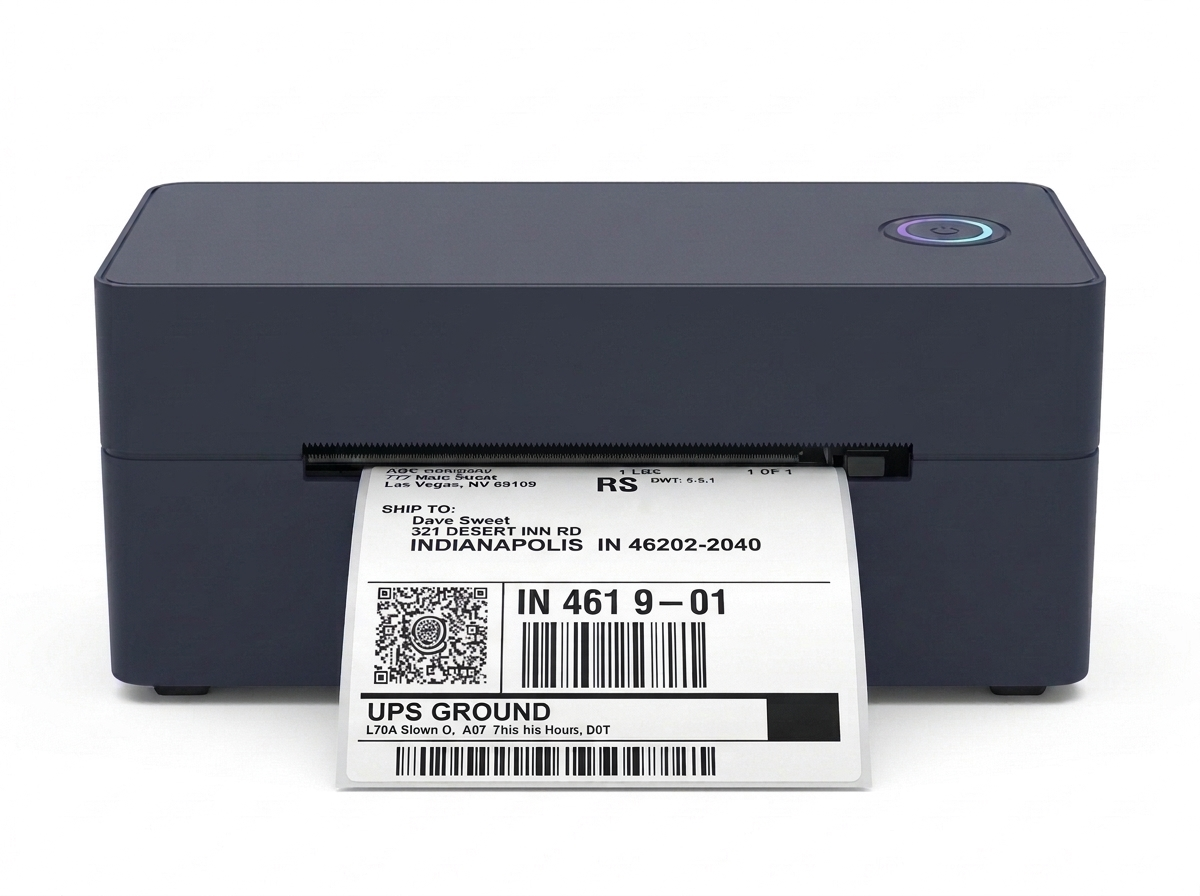
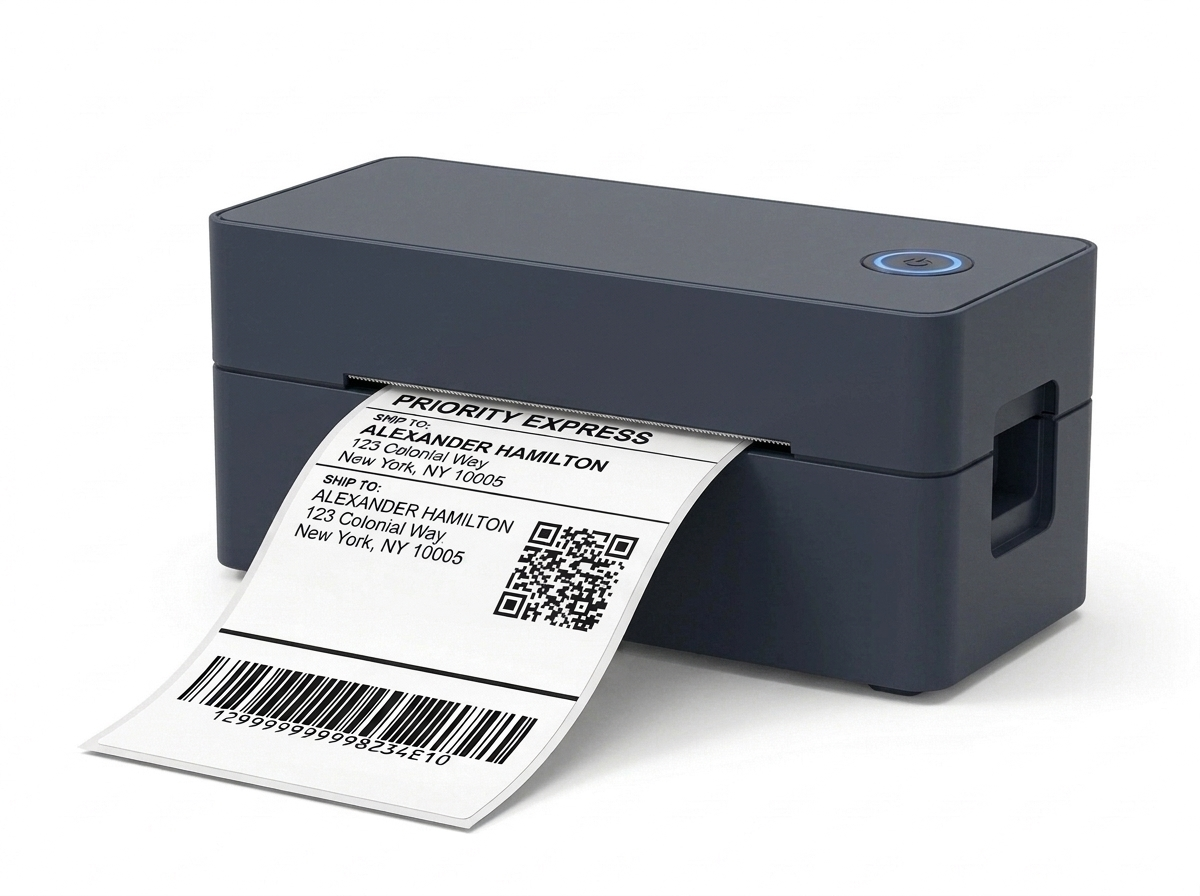
fix(checkout): add exact Dark Slate twin image and eliminate duplicate finish selector strip

Changed region(s): [[0.0617, 0.1562, 0.925, 0.9375], [0.0925, 0.8438, 0.2158, 0.875], [0.0617, 0.8125, 0.0925, 0.8438]]

diff --git a/src/app/product/page.tsx b/src/app/product/page.tsx
@@ -22,7 +22,6 @@ import ReviewsSection from "@/components/ReviewsSection";
 export default function ProductPage() {
   const { config } = useSiteConfig();
   const [selectedColor, setSelectedColor] = useState<"white" | "dark">(config.defaultColor || "dark");
-  const [activeGalleryIndex, setActiveGalleryIndex] = useState<number>(0);
   const [qty, setQty] = useState(1);
   const [loading, setLoading] = useState(false);
 
@@ -33,39 +32,19 @@ export default function ProductPage() {
     }
   }, [config.defaultColor]);
 
-  // Gallery items strictly for the two printer finishes (Dark Slate & Arctic White)
-  const galleryItems: {
-    id: string;
-    color: "white" | "dark";
-    title: string;
-    subtitle: string;
-    src: string;
-  }[] = [
-    {
-      id: "dark",
-      color: "dark",
-      title: config.darkColorLabel || "Dark Slate",
-      subtitle: "Stealth Matte Finish",
-      src: config.frontFeedImageDark || "/bravon-hero-studio-dark.jpg",
-    },
-    {
-      id: "white",
-      color: "white",
-      title: config.whiteColorLabel || "Arctic White",
-      subtitle: "Clean Studio Finish",
-      src: config.frontFeedImageWhite || "/bravon-hero-studio-white-v2.jpg",
-    },
-  ];
+  // Current display image based on selected finish
+  const activeImage =
+    selectedColor === "white"
+      ? config.frontFeedImageWhite || "/bravon-hero-studio-white-v2.jpg"
+      : config.frontFeedImageDark || "/bravon-hero-studio-dark-v2.jpg";
 
-  // Keep active gallery index synchronized with selected finish
-  useEffect(() => {
-    const idx = galleryItems.findIndex((item) => item.color === selectedColor);
-    if (idx !== -1 && idx !== activeGalleryIndex) {
-      setActiveGalleryIndex(idx);
-    }
-  }, [selectedColor]);
+  const activeTitle =
+    selectedColor === "white"
+      ? config.whiteColorLabel || "Arctic White"
+      : config.darkColorLabel || "Dark Slate";
 
-  const currentGalleryItem = galleryItems[activeGalleryIndex] || galleryItems[0];
+  const activeSubtitle =
+    selectedColor === "white" ? "Clean Studio Finish" : "Stealth Matte Finish";
   const currentPrice = config.price || 100;
   const currentComparePrice = config.comparePrice || 149;
 
@@ -190,7 +169,7 @@ export default function ProductPage() {
                   zIndex: 2,
                 }}
               >
-                {currentGalleryItem.title} · {currentGalleryItem.subtitle}
+                {activeTitle} · {activeSubtitle}
               </div>
 
               {/* Main Preview Image */}
@@ -198,7 +177,7 @@ export default function ProductPage() {
                 style={{
                   position: "relative",
                   width: "100%",
-                  height: "340px",
+                  height: "360px",
                   display: "flex",
                   alignItems: "center",
                   justifyContent: "center",
@@ -206,9 +185,9 @@ export default function ProductPage() {
                 }}
               >
                 <Image
-                  key={`${currentGalleryItem.id}-${selectedColor}`}
-                  src={currentGalleryItem.src}
-                  alt={`${config.productName} - ${currentGalleryItem.title}`}
+                  key={selectedColor}
+                  src={activeImage}
+                  alt={`${config.productName} - ${activeTitle}`}
                   fill
                   sizes="(max-width: 768px) 100vw, 600px"
                   style={{
@@ -217,91 +196,6 @@ export default function ProductPage() {
                   }}
                   priority
                 />
-              </div>
-
-              {/* Two-Printer Interactive Finish Selector Strip */}
-              <div
-                className="gallery-thumbnail-strip"
-                style={{
-                  display: "grid",
-                  gridTemplateColumns: "1fr 1fr",
-                  gap: "10px",
-                  width: "100%",
-                  maxWidth: "100%",
-                  marginTop: "16px",
-                  paddingTop: "14px",
-                  borderTop: "1px solid rgba(0, 0, 0, 0.06)",
-                  boxSizing: "border-box",
-                }}
-              >
-                {galleryItems.map((item, index) => {
-                  const isActive = selectedColor === item.color || activeGalleryIndex === index;
-                  return (
-                    <button
-                      key={item.id}
-                      type="button"
-                      onClick={() => {
-                        setActiveGalleryIndex(index);
-                        if (item.color) {
-                          setSelectedColor(item.color);
-                        }
-                      }}
-                      style={{
-                        padding: "10px 14px",
-                        borderRadius: "14px",
-                        border: isActive
-                          ? "2px solid var(--bravon-purple)"
-                          : "1px solid rgba(0, 0, 0, 0.08)",
-                        backgroundColor: isActive ? "var(--bravon-purple-subtle)" : "#FAFAFC",
-                        cursor: "pointer",
-                        display: "flex",
-                        alignItems: "center",
-                        gap: "10px",
-                        transition: "all 0.2s ease",
-                        boxShadow: isActive ? "0 4px 12px rgba(124, 58, 237, 0.12)" : "none",
-                        textAlign: "left",
-                      }}
-                      aria-label={`Select ${item.title}`}
-                    >
-                      <span
-                        style={{
-                          width: "18px",
-                          height: "18px",
-                          borderRadius: "50%",
-                          backgroundColor: item.color === "dark" ? "#2B3245" : "#FFFFFF",
-                          border: item.color === "dark" ? "2px solid rgba(0,0,0,0.2)" : "2px solid #D1D5DB",
-                          display: "inline-block",
-                          flexShrink: 0,
-                        }}
-                      />
-                      <div style={{ display: "flex", flexDirection: "column", minWidth: 0 }}>
-                        <span
-                          style={{
-                            fontSize: "0.82rem",
-                            fontWeight: 700,
-                            color: isActive ? "var(--bravon-purple)" : "#0F172A",
-                            whiteSpace: "nowrap",
-                            overflow: "hidden",
-                            textOverflow: "ellipsis",
-                          }}
-                        >
-                          {item.title}
-                        </span>
-                        <span
-                          style={{
-                            fontSize: "0.68rem",
-                            color: "var(--text-secondary)",
-                            whiteSpace: "nowrap",
-                            overflow: "hidden",
-                            textOverflow: "ellipsis",
-                          }}
-                        >
-                          {item.subtitle}
-                        </span>
-                      </div>
-                    </button>
-                  );
-                })}
               </div>
             </div>
           </div>
@@ -422,10 +316,7 @@ export default function ProductPage() {
                 {/* Dark Slate Option */}
                 <button
                   type="button"
-                  onClick={() => {
-                    setSelectedColor("dark");
-                    setActiveGalleryIndex(0);
-                  }}
+                  onClick={() => setSelectedColor("dark")}
                   style={{
                     padding: "14px 16px",
                     borderRadius: "16px",
@@ -464,10 +355,7 @@ export default function ProductPage() {
                 {/* Arctic White Option */}
                 <button
                   type="button"
-                  onClick={() => {
-                    setSelectedColor("white");
-                    setActiveGalleryIndex(0);
-                  }}
+                  onClick={() => setSelectedColor("white")}
                   style={{
                     padding: "14px 16px",
                     borderRadius: "16px",

diff --git a/src/lib/siteConfig.ts b/src/lib/siteConfig.ts
@@ -156,7 +156,7 @@ export const DEFAULT_SITE_CONFIG: SiteConfig = {
   productImageInBox: "/bravon-in-the-box-v4.jpg",
   productImageAction: "/bravon-shipping-action-v3.jpg",
   frontFeedImageWhite: "/bravon-hero-studio-white-v2.jpg",
-  frontFeedImageDark: "/bravon-hero-studio-dark.jpg",
+  frontFeedImageDark: "/bravon-hero-studio-dark-v2.jpg",
   stickerLifestyleImage: "/bravon-stickers-floor-v3.jpg",
   storeLogoUrl: "/bravon-logo.png",
   storeFaviconUrl: "/bravon-app-icon.png",
